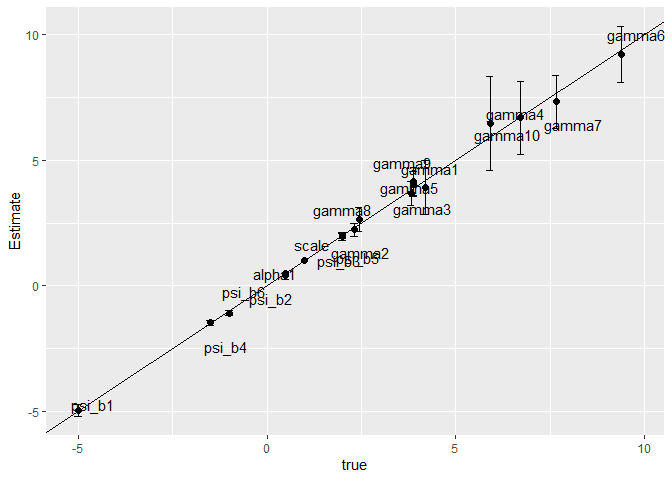
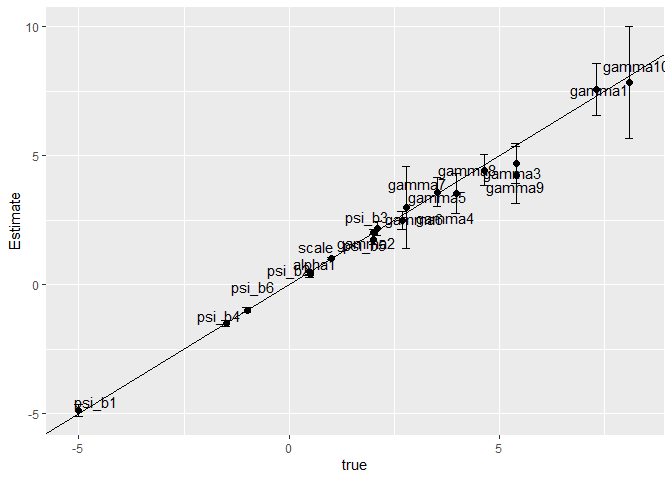
Revise Readme

diff --git a/README.md b/README.md
@@ -107,20 +107,20 @@ mdcev_est <- mdcev(~ b1 + b2 + b3 + b4 + b5 + b6,
                    model = model,
                    algorithm = "MLE")
 #> Using MLE to estimate KT model
-#> Chain 1: Initial log joint probability = -91048
+#> Chain 1: Initial log joint probability = -77850.8
 #> Chain 1:     Iter      log prob        ||dx||      ||grad||       alpha      alpha0  # evals  Notes 
 #> Chain 1: Error evaluating model log probability: Non-finite gradient.
 #> Error evaluating model log probability: Non-finite gradient.
 #> 
-#> Chain 1:       19      -34017.1      0.828389        593.03           1           1       31   
+#> Chain 1:       19      -29151.4      0.387104       268.866           1           1       30   
 #> Chain 1:     Iter      log prob        ||dx||      ||grad||       alpha      alpha0  # evals  Notes 
-#> Chain 1:       39      -33883.5     0.0486262       41.9233       1.362      0.1362       54   
+#> Chain 1:       39      -29074.5     0.0456729       33.6302           1           1       54   
 #> Chain 1:     Iter      log prob        ||dx||      ||grad||       alpha      alpha0  # evals  Notes 
-#> Chain 1:       59      -33879.1    0.00342063       5.98227           1           1       76   
+#> Chain 1:       59      -29064.8      0.017239        26.829      0.8147      0.8147       75   
 #> Chain 1:     Iter      log prob        ||dx||      ||grad||       alpha      alpha0  # evals  Notes 
-#> Chain 1:       79      -33879.1   0.000905567      0.741452      0.8561      0.8561      100   
+#> Chain 1:       79      -29064.3     0.0067155       2.44497           1           1       97   
 #> Chain 1:     Iter      log prob        ||dx||      ||grad||       alpha      alpha0  # evals  Notes 
-#> Chain 1:       81      -33879.1   0.000653699      0.595676           1           1      102   
+#> Chain 1:       92      -29064.3   0.000473185      0.375743           1           1      114   
 #> Chain 1: Optimization terminated normally: 
 #> Chain 1:   Convergence detected: relative gradient magnitude is below tolerance
 ```
@@ -129,44 +129,44 @@ Summarize results
 
 ``` r
 summary(mdcev_est)
-#> Model run using rmdcev for R, version 1.1.2 
+#> Model run using rmdcev for R, version 1.1.3 
 #> Estimation method                : MLE
 #> Model type                       : gamma specification
 #> Number of classes                : 1
 #> Number of individuals            : 2000
 #> Number of non-numeraire alts     : 10
 #> Estimated parameters             : 18
-#> LL                               : -33879.07
-#> AIC                              : 67794.13
-#> BIC                              : 67894.95
+#> LL                               : -29064.31
+#> AIC                              : 58164.62
+#> BIC                              : 58265.44
 #> Standard errors calculated using : Delta method
 #> Exit of MLE                      : successful convergence
-#> Time taken (hh:mm:ss)            : 00:00:2.68
+#> Time taken (hh:mm:ss)            : 00:00:2.7
 #> 
 #> Average consumption of non-numeraire alternatives:
 #>     1     2     3     4     5     6     7     8     9    10 
-#>  1.55 18.19 13.73  3.39 11.99 40.21 14.11  2.83 20.17  2.07 
+#> 22.36 17.37  6.77  1.94  6.16 20.07  0.26 19.86  1.57  2.35 
 #> 
 #> Parameter estimates --------------------------------  
-#>          Estimate Std.err z.stat
-#> psi_b1     -4.955   0.113 -43.85
-#> psi_b2      0.407   0.073   5.58
-#> psi_b3      1.961   0.077  25.47
-#> psi_b4     -1.475   0.056 -26.34
-#> psi_b5      1.987   0.049  40.55
-#> psi_b6     -1.092   0.053 -20.61
-#> gamma_1     3.927   0.547   7.18
-#> gamma_2     2.233   0.134  16.66
-#> gamma_3     3.674   0.249  14.76
-#> gamma_4     6.684   0.746   8.96
-#> gamma_5     4.160   0.280  14.86
-#> gamma_6     9.207   0.562  16.38
-#> gamma_7     7.316   0.529  13.83
-#> gamma_8     2.641   0.245  10.78
-#> gamma_9     4.042   0.252  16.04
-#> gamma_10    6.447   0.954   6.76
-#> alpha_1     0.487   0.008  60.84
-#> scale       0.999   0.016  62.46
+#>           Estimate Std.err z.stat
+#> psi_b1      -4.884   0.109 -44.81
+#> psi_b2       0.413   0.070   5.90
+#> psi_b3       1.760   0.093  18.92
+#> psi_b4      -1.493   0.058 -25.75
+#> psi_b5       2.039   0.054  37.75
+#> psi_b6      -0.985   0.053 -18.58
+#> gamma_1      7.574   0.511  14.82
+#> gamma_2      2.192   0.139  15.77
+#> gamma_3      4.694   0.391  12.00
+#> gamma_4      3.531   0.390   9.05
+#> gamma_5      3.584   0.284  12.62
+#> gamma_6      2.493   0.170  14.67
+#> gamma_7      2.986   0.813   3.67
+#> gamma_8      4.449   0.301  14.78
+#> gamma_9      4.241   0.564   7.52
+#> gamma_10     7.839   1.107   7.08
+#> alpha_num    0.491   0.009  54.53
+#> scale        1.003   0.017  58.98
 #> Note: All non-numeraire alpha's fixed to 0.
 ```
 
@@ -181,24 +181,24 @@ coefs <- as_tibble(sim.data$parms_true) %>%
 
 head(coefs, 200)
 #>      parms      true Estimate Std.err z.stat    cl_lo    cl_hi
-#> 1   psi_b1 -5.000000   -4.955   0.113 -43.85 -5.17648 -4.73352
-#> 2   psi_b2  0.500000    0.407   0.073   5.58  0.26392  0.55008
-#> 3   psi_b3  2.000000    1.961   0.077  25.47  1.81008  2.11192
-#> 4   psi_b4 -1.500000   -1.475   0.056 -26.34 -1.58476 -1.36524
-#> 5   psi_b5  2.000000    1.987   0.049  40.55  1.89096  2.08304
-#> 6   psi_b6 -1.000000   -1.092   0.053 -20.61 -1.19588 -0.98812
-#> 7   gamma1  4.203510    3.927   0.547   7.18  2.85488  4.99912
-#> 8   gamma2  2.317260    2.233   0.134  16.66  1.97036  2.49564
-#> 9   gamma3  3.816600    3.674   0.249  14.76  3.18596  4.16204
-#> 10  gamma4  6.724763    6.684   0.746   8.96  5.22184  8.14616
-#> 11  gamma5  3.891834    4.160   0.280  14.86  3.61120  4.70880
-#> 12  gamma6  9.380593    9.207   0.562  16.38  8.10548 10.30852
-#> 13  gamma7  7.656471    7.316   0.529  13.83  6.27916  8.35284
-#> 14  gamma8  2.440941    2.641   0.245  10.78  2.16080  3.12120
-#> 15  gamma9  3.874010    4.042   0.252  16.04  3.54808  4.53592
-#> 16 gamma10  5.907231    6.447   0.954   6.76  4.57716  8.31684
-#> 17  alpha1  0.500000    0.487   0.008  60.84  0.47132  0.50268
-#> 18   scale  1.000000    0.999   0.016  62.46  0.96764  1.03036
+#> 1   psi_b1 -5.000000   -4.884   0.109 -44.81 -5.09764 -4.67036
+#> 2   psi_b2  0.500000    0.413   0.070   5.90  0.27580  0.55020
+#> 3   psi_b3  2.000000    1.760   0.093  18.92  1.57772  1.94228
+#> 4   psi_b4 -1.500000   -1.493   0.058 -25.75 -1.60668 -1.37932
+#> 5   psi_b5  2.000000    2.039   0.054  37.75  1.93316  2.14484
+#> 6   psi_b6 -1.000000   -0.985   0.053 -18.58 -1.08888 -0.88112
+#> 7   gamma1  7.314567    7.574   0.511  14.82  6.57244  8.57556
+#> 8   gamma2  2.097729    2.192   0.139  15.77  1.91956  2.46444
+#> 9   gamma3  5.392488    4.694   0.391  12.00  3.92764  5.46036
+#> 10  gamma4  3.970054    3.531   0.390   9.05  2.76660  4.29540
+#> 11  gamma5  3.523847    3.584   0.284  12.62  3.02736  4.14064
+#> 12  gamma6  2.684004    2.493   0.170  14.67  2.15980  2.82620
+#> 13  gamma7  2.787718    2.986   0.813   3.67  1.39252  4.57948
+#> 14  gamma8  4.648740    4.449   0.301  14.78  3.85904  5.03896
+#> 15  gamma9  5.393200    4.241   0.564   7.52  3.13556  5.34644
+#> 16 gamma10  8.095358    7.839   1.107   7.08  5.66928 10.00872
+#> 17  alpha1  0.500000    0.491   0.009  54.53  0.47336  0.50864
+#> 18   scale  1.000000    1.003   0.017  58.98  0.96968  1.03632
 ```
 
 Compare outputs using a figure
@@ -222,7 +222,7 @@ effects)
 ``` r
 npols <- 2 # Choose number of policies
 
-policies<-  CreateBlankPolicies(npols, nalts, mdcev_est$stan_data[["dat_psi"]])
+policies <- CreateBlankPolicies(npols, mdcev_est)
 
 df_sim <- PrepareSimulationData(mdcev_est, policies, nsims = 1) 
 ```
@@ -238,11 +238,11 @@ wtp <- mdcev.sim(df_sim$df_indiv,
                  sim_type = "welfare")
 #> Using general approach in simulation...
 #> 
-#> 6.00e+04simulations finished in0.33minutes.(3049per second)
+#> 6.00e+04simulations finished in0.36minutes.(2783per second)
 summary(wtp)
 #> # A tibble: 2 x 5
 #>   policy       mean std.dev `ci_lo2.5%` `ci_hi97.5%`
 #>   <chr>       <dbl>   <dbl>       <dbl>        <dbl>
-#> 1 policy1 -1.35e-11      NA   -1.35e-11    -1.35e-11
-#> 2 policy2 -1.35e-11      NA   -1.35e-11    -1.35e-11
+#> 1 policy1 -3.86e-12      NA   -3.86e-12    -3.86e-12
+#> 2 policy2 -3.86e-12      NA   -3.86e-12    -3.86e-12
 ```
